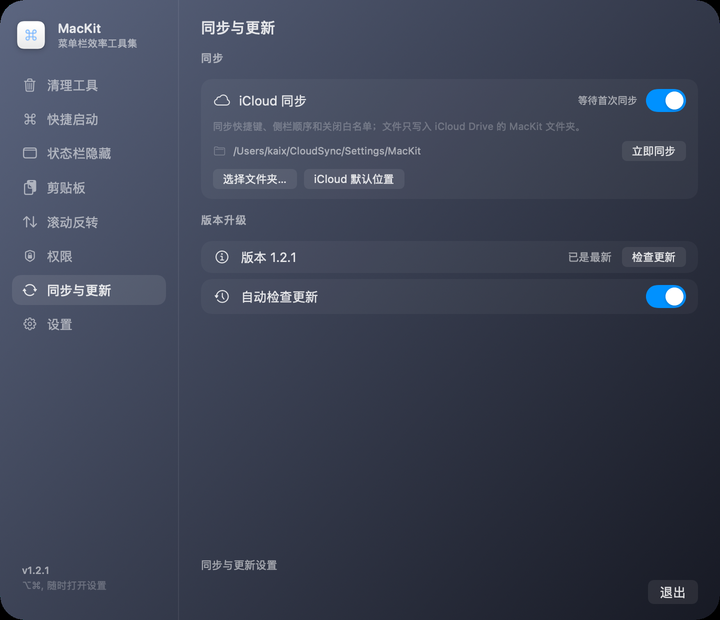
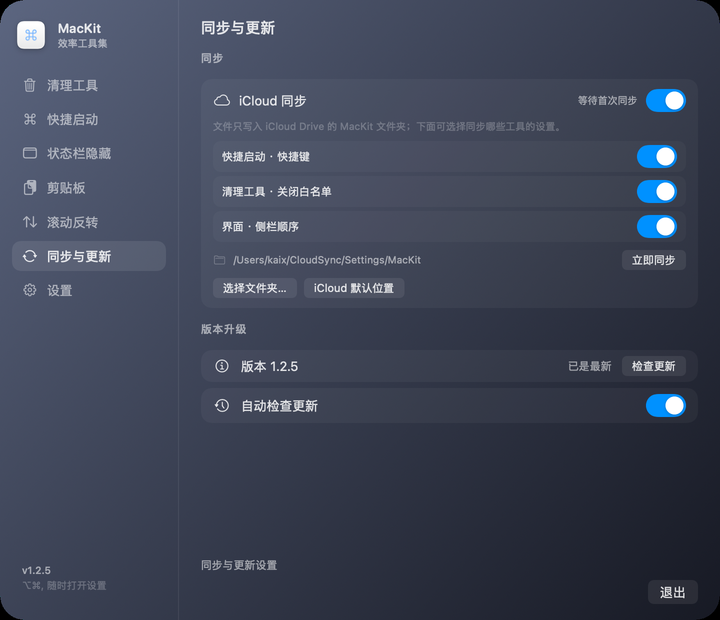
iCloud 同步支持按工具单独开关
- 同步设置新增三项开关：快捷启动·快捷键、清理工具·关闭白名单、界面·侧栏顺序，默认全开
- 应用远端时按本机开关过滤：关掉的项不会被远端覆盖
- 开关状态存 UserDefaults；更新文档与截图
- 版本 1.2.5（build 31）

diff --git a/Sources/CloudSync.swift b/Sources/CloudSync.swift
@@ -186,6 +186,17 @@ final class MacKitCloudSyncEngine: ObservableObject {
     static let baseFolderKey = "MacKit.iCloudSyncBaseFolder"
     static let editedAtKey = "MacKit.iCloudSyncEditedAt"
 
+    /// 同步内容开关：每个工具单独控制，改动后立即生效
+    @Published var syncHotkeys: Bool = Preferences.syncHotkeys {
+        didSet { Preferences.syncHotkeys = syncHotkeys }
+    }
+    @Published var syncSidebarOrder: Bool = Preferences.syncSidebarOrder {
+        didSet { Preferences.syncSidebarOrder = syncSidebarOrder }
+    }
+    @Published var syncQuitWhitelist: Bool = Preferences.syncQuitWhitelist {
+        didSet { Preferences.syncQuitWhitelist = syncQuitWhitelist }
+    }
+
     @Published private(set) var enabled = false
     @Published private(set) var baseFolder = ""
     @Published private(set) var iCloudAvailable = false
@@ -528,8 +539,32 @@ final class MacKitCloudSyncEngine: ObservableObject {
 
 // MARK: - 设置卡片
 
+private struct SyncToggleRow: View {
+    let title: String
+    @Binding var isOn: Bool
+
+    var body: some View {
+        HStack(spacing: 8) {
+            Text(title)
+                .font(.system(size: 11))
+            Spacer(minLength: 8)
+            GlassSwitch(isOn: $isOn)
+        }
+        .padding(.horizontal, 9)
+        .padding(.vertical, 4)
+        .background(
+            RoundedRectangle(cornerRadius: 8, style: .continuous)
+                .fill(.quaternary.opacity(0.3))
+        )
+    }
+}
+
 struct MacKitSyncSettingsCard: View {
     @ObservedObject var engine: MacKitCloudSyncEngine
+
+    private func syncToggle(_ title: String, isOn: Binding<Bool>) -> some View {
+        SyncToggleRow(title: title, isOn: isOn)
+    }
 
     var body: some View {
         VStack(alignment: .leading, spacing: 8) {
@@ -548,11 +583,27 @@ struct MacKitSyncSettingsCard: View {
             }
 
             Text(engine.enabled
-                 ? "同步快捷键、侧栏顺序和关闭白名单；文件只写入 iCloud Drive 的 MacKit 文件夹。"
-                 : "开启后通过 iCloud Drive 在你的 Mac 之间同步快捷键、侧栏顺序和关闭白名单。")
+                 ? "文件只写入 iCloud Drive 的 MacKit 文件夹；下面可选择同步哪些工具的设置。"
+                 : "开启后通过 iCloud Drive 在你的 Mac 之间同步；下面可选择同步哪些工具的设置。")
                 .font(.system(size: 10))
                 .foregroundStyle(.tertiary)
                 .fixedSize(horizontal: false, vertical: true)
+
+            VStack(spacing: 4) {
+                syncToggle("快捷启动 · 快捷键", isOn: Binding(
+                    get: { engine.syncHotkeys },
+                    set: { engine.syncHotkeys = $0 }
+                ))
+                syncToggle("清理工具 · 关闭白名单", isOn: Binding(
+                    get: { engine.syncQuitWhitelist },
+                    set: { engine.syncQuitWhitelist = $0 }
+                ))
+                syncToggle("界面 · 侧栏顺序", isOn: Binding(
+                    get: { engine.syncSidebarOrder },
+                    set: { engine.syncSidebarOrder = $0 }
+                ))
+            }
+            .opacity(engine.enabled ? 1 : 0.55)
 
             if engine.enabled {
                 HStack(spacing: 7) {

diff --git a/Sources/main.swift b/Sources/main.swift
@@ -352,6 +352,35 @@ enum Preferences {
     private static let quitWhitelistKey = "quitAllWhitelist"
 
     /// 一键关闭所有 App 时豁免的 bundle id / 路径
+    private static let syncHotkeysKey = "syncHotkeys"
+    private static let syncSidebarOrderKey = "syncSidebarOrder"
+    private static let syncQuitWhitelistKey = "syncQuitWhitelistKey"
+
+    /// 同步开关：默认全部开启，保持原有行为
+    static var syncHotkeys: Bool {
+        get {
+            if UserDefaults.standard.object(forKey: syncHotkeysKey) == nil { return true }
+            return UserDefaults.standard.bool(forKey: syncHotkeysKey)
+        }
+        set { UserDefaults.standard.set(newValue, forKey: syncHotkeysKey) }
+    }
+
+    static var syncSidebarOrder: Bool {
+        get {
+            if UserDefaults.standard.object(forKey: syncSidebarOrderKey) == nil { return true }
+            return UserDefaults.standard.bool(forKey: syncSidebarOrderKey)
+        }
+        set { UserDefaults.standard.set(newValue, forKey: syncSidebarOrderKey) }
+    }
+
+    static var syncQuitWhitelist: Bool {
+        get {
+            if UserDefaults.standard.object(forKey: syncQuitWhitelistKey) == nil { return true }
+            return UserDefaults.standard.bool(forKey: syncQuitWhitelistKey)
+        }
+        set { UserDefaults.standard.set(newValue, forKey: syncQuitWhitelistKey) }
+    }
+
     static var quitAllWhitelist: [String] {
         get { UserDefaults.standard.stringArray(forKey: quitWhitelistKey) ?? [] }
         set { UserDefaults.standard.set(newValue, forKey: quitWhitelistKey) }
@@ -3745,13 +3774,27 @@ final class AppDelegate: NSObject, NSApplicationDelegate {
 
     /// 把同步文件夹里的设置应用到本机；不会反向标记成本机新改动。
     private func applySyncedSettings(_ record: MacKitSyncRecord) -> String? {
-        let order = normalizedSidebarOrder(record.sidebarOrder)
-        if let error = saveConfig(Config(hotkeys: record.hotkeys), notifySync: false) {
-            return error
+        let engine = model.syncEngine
+
+        if engine.syncHotkeys {
+            if let error = saveConfig(Config(hotkeys: record.hotkeys), notifySync: false) {
+                return error
+            }
         }
-        model.applySyncedPreferences(sidebarOrder: order, quitWhitelist: record.quitWhitelist)
+
+        if engine.syncSidebarOrder || engine.syncQuitWhitelist {
+            let order = engine.syncSidebarOrder ? normalizedSidebarOrder(record.sidebarOrder) : model.pageOrder
+            let whitelist = engine.syncQuitWhitelist ? record.quitWhitelist : model.quitWhitelist
+            model.applySyncedPreferences(sidebarOrder: order, quitWhitelist: whitelist)
+        }
+
         rebuildMenu()
-        Log.write("iCloud 同步：已应用远端设置（快捷键 \(record.hotkeys.count) 条）")
+        let parts = [
+            engine.syncHotkeys ? "快捷键 \(record.hotkeys.count) 条" : nil,
+            engine.syncSidebarOrder ? "侧栏顺序" : nil,
+            engine.syncQuitWhitelist ? "关闭白名单" : nil
+        ].compactMap { $0 }
+        Log.write("iCloud 同步：已应用远端设置（\(parts.isEmpty ? "全部关闭" : parts.joined(separator: "、"))）")
         return nil
     }
 

diff --git a/README.md b/README.md
@@ -11,7 +11,7 @@
 - 默认注册 **⌘⌥K** 直接打开设置窗口，可在设置里关掉
 - 菜单栏图标折叠（类似 Hidden Bar）：分隔线左侧的图标可一键收进屏幕外，可设为启动时自动折叠
 - 清理工具里可以一键关闭所有普通前台 App，并支持白名单豁免
-- iCloud 同步：用 iCloud Drive 里的普通文件夹，在 Mac 之间同步快捷键、侧栏顺序和关闭白名单；菜单栏 / Dock 图标等本机偏好不参与同步
+- iCloud 同步：用 iCloud Drive 里的普通文件夹，按工具分别开关要同步的内容（快捷键 / 关闭白名单 / 侧栏顺序）；菜单栏 / Dock 图标等本机偏好不参与同步
 - 自动检查更新：每 6 小时查一次 GitHub Release，发现新版本在「同步与更新」页提示，点一下开下载页
 - 图标使用 macOS 27 原生分层资源：亮色白底、暗色近黑底，蓝色 ⌘ 带高光与投影；设置窗口保留 Liquid Glass 风格
 - 剪贴板历史：**⌥Space** 打开毛玻璃浮层，左侧紧凑列表、选中后展开右侧详情；非置顶前 9 条使用 **⌘1–⌘9**，置顶在设置页绑定 **⌘ + 字母/数字**；持久保存与同步默认关闭
@@ -101,7 +101,8 @@
 **iCloud 同步**（「同步与更新」页）：
 
 - 只在 iCloud Drive 的 `MacKit/settings.json` 里读写，不申请 iCloud ubiquity container，也不走 CloudKit
-- 同步三项：**快捷键**、**侧栏顺序**、**关闭白名单**。显示菜单栏 / Dock 图标、⌘⌥K、折叠状态、自动检查更新等本机偏好不同步
+- 同步内容可按工具单独开关：**快捷启动 · 快捷键**、**清理工具 · 关闭白名单**、**界面 · 侧栏顺序**，默认全开
+- 关掉的项既不会写进同步文件，也不会被远端覆盖；显示菜单栏 / Dock 图标、⌘⌥K、折叠状态、自动检查更新等本机偏好始终不同步
 - 合并按 `updatedAt` 判断，远端明显新于本机才覆盖；本机保存后会把新记录写回文件，两端最终收敛
 - 本机没有可写的 iCloud Drive 时，可以点「选择文件夹…」指定任意文件夹，MacKit 会在其中创建 `MacKit` 子目录
 - 写入用临时文件 + `rename(2)` 原子替换；遇到损坏或读不到的 `settings.json` 只报错，不会拿本机内容覆盖
